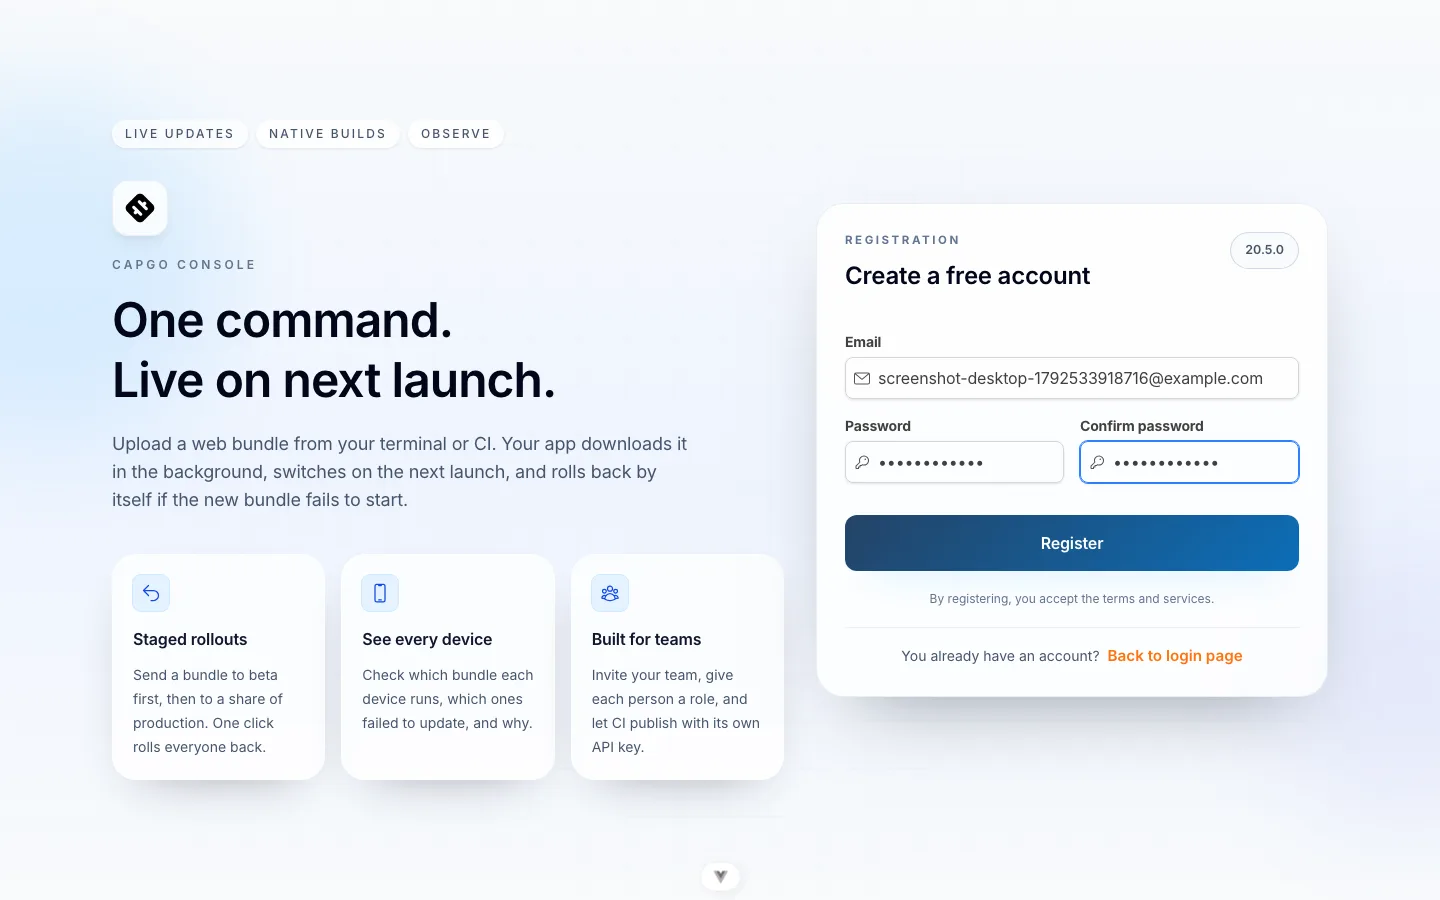
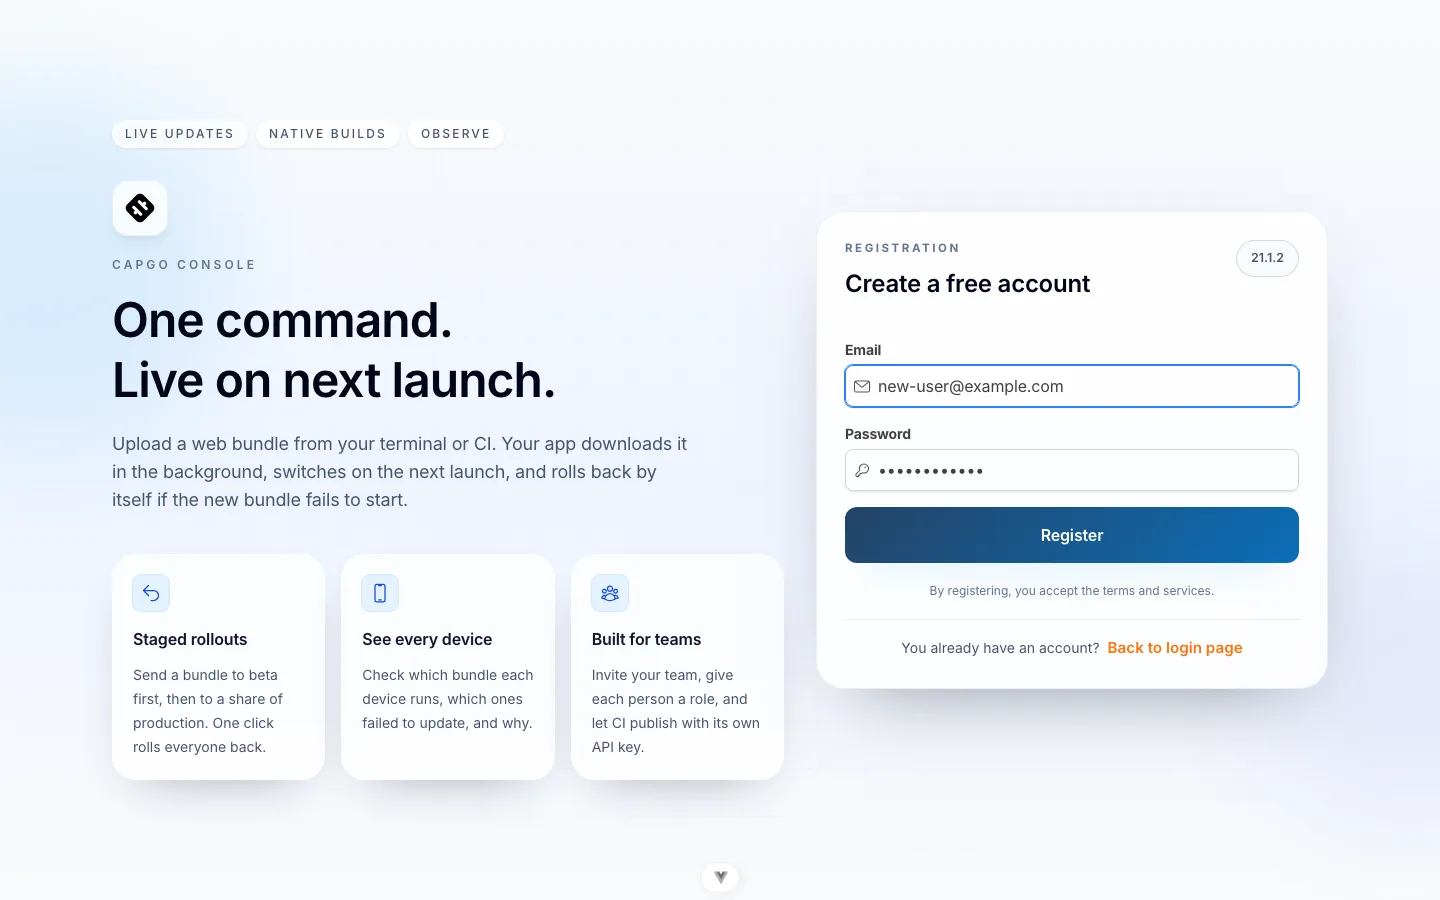
fix(register): drop confirm password field
Match the website signup: email and password only.

diff --git a/playwright/e2e/register.spec.ts b/playwright/e2e/register.spec.ts
@@ -182,7 +182,6 @@ test.describe('Registration', () => {
   test('returns from Your goal to saved names and retains the selected goal', async ({ page }) => {
     await page.fill('[data-test="email"]', `profile-back-${Date.now()}@example.com`)
     await page.fill('[data-test="password"]', 'Password123!')
-    await page.fill('[data-test="confirm-password"]', 'Password123!')
     await page.click('[data-test="submit"]')
     await page.waitForURL(/\/onboarding\/name/)
     await continuePastProfileWelcome(page)
@@ -222,7 +221,6 @@ test.describe('Registration', () => {
     await expect(page.locator('[data-test="last_name"]')).toHaveCount(0)
     await page.fill('[data-test="email"]', email)
     await page.fill('[data-test="password"]', 'Password123!')
-    await page.fill('[data-test="confirm-password"]', 'Password123!')
     await page.route('**/auth/v1/signup', route => route.abort())
     const registrationRequest = page.waitForRequest(request => request.url().endsWith('/auth/register') && request.method() === 'POST')
     await page.click('[data-test="submit"]')
@@ -346,7 +344,6 @@ test.describe('Registration', () => {
     await page.setViewportSize({ width: 390, height: 844 })
     await page.fill('[data-test="email"]', `mobile-profile-e2e-${Date.now()}@example.com`)
     await page.fill('[data-test="password"]', 'Password123!')
-    await page.fill('[data-test="confirm-password"]', 'Password123!')
     await page.click('[data-test="submit"]')
     await page.waitForURL(/\/onboarding\/name/)
     await continuePastProfileWelcome(page)
@@ -379,7 +376,6 @@ test.describe('Registration', () => {
       const password = 'Password123!'
       await page.fill('[data-test="email"]', email)
       await page.fill('[data-test="password"]', password)
-      await page.fill('[data-test="confirm-password"]', password)
       await page.click('[data-test="submit"]')
       await page.waitForURL(/\/onboarding\/name/)
       await continuePastProfileWelcome(page)
@@ -578,7 +574,6 @@ test.describe('Registration', () => {
 
     await page.fill('[data-test="email"]', email)
     await page.fill('[data-test="password"]', password)
-    await page.fill('[data-test="confirm-password"]', password)
     await page.click('[data-test="submit"]')
 
     await page.waitForURL(/\/onboarding\/name/)
@@ -630,7 +625,6 @@ test.describe('Registration', () => {
 
     await page.fill('[data-test="email"]', email)
     await page.fill('[data-test="password"]', password)
-    await page.fill('[data-test="confirm-password"]', password)
     await page.click('[data-test="submit"]')
 
     await page.waitForURL(/\/onboarding\/name/)
@@ -672,7 +666,6 @@ test.describe('Registration', () => {
 
     await page.fill('[data-test="email"]', email)
     await page.fill('[data-test="password"]', 'Password123!')
-    await page.fill('[data-test="confirm-password"]', 'Password123!')
     await page.click('[data-test="submit"]')
 
     await page.waitForURL(/\/onboarding\/name/)
@@ -687,7 +680,6 @@ test.describe('Registration', () => {
   test('should show error for existing email', async ({ page }) => {
     await page.fill('[data-test="email"]', 'test@capgo.app')
     await page.fill('[data-test="password"]', 'Password123!')
-    await page.fill('[data-test="confirm-password"]', 'Password123!')
     await page.click('[data-test="submit"]')
     await expect(page.locator('[data-test="form-error"]')).toContainText('User already registered')
   })
@@ -695,17 +687,8 @@ test.describe('Registration', () => {
   test('should show error for deleted account email', async ({ page }) => {
     await page.fill('[data-test="email"]', 'deleted@capgo.app')
     await page.fill('[data-test="password"]', 'Password123!')
-    await page.fill('[data-test="confirm-password"]', 'Password123!')
     await page.click('[data-test="submit"]')
     await expect(page.locator('[data-test="form-error"]')).toContainText('Account with this email used to exist, cannot recreate')
-  })
-
-  test('should show error for password mismatch', async ({ page }) => {
-    await page.fill('[data-test="email"]', 'new@example.com')
-    await page.fill('[data-test="password"]', 'Password123!')
-    await page.fill('[data-test="confirm-password"]', 'Password456!')
-    await page.click('[data-test="submit"]')
-    await expect(page.locator('.formkit-messages [data-message-type="validation"]')).toContainText('Password confirmation does not match')
   })
 
   test('should require a number before submitting to the registration API', async ({ page }) => {
@@ -716,7 +699,6 @@ test.describe('Registration', () => {
     })
     await page.fill('[data-test="email"]', 'password-policy@example.com')
     await page.fill('[data-test="password"]', 'Password!')
-    await page.fill('[data-test="confirm-password"]', 'Password!')
     await page.click('[data-test="submit"]')
     await expect(page.locator('.formkit-messages [data-message-type="validation"]')).toContainText(/number/i)
     expect(requests).toBe(0)

diff --git a/src/pages/register.vue b/src/pages/register.vue
@@ -84,27 +84,21 @@ async function submit(form: { password: string, email: string }) {
           />
         </div>
 
-        <FormKit
-          type="password"
-          name="password"
-          :prefix-icon="iconPassword"
-          autocomplete="new-password"
-          :label="t('password')"
-          data-test="password"
-          validation="required|length:6|contains_alpha|contains_uppercase|contains_lowercase|contains_numeric|contains_symbol"
-          validation-visibility="dirty"
-        />
-        <FormKit
-          type="password"
-          name="password_confirm"
-          :prefix-icon="iconPassword"
-          :label="t('confirm-password')"
-          autocomplete="new-password"
-          data-test="confirm-password"
-          validation="required|confirm"
-          validation-visibility="dirty"
-          :validation-label="t('password-confirmatio')"
-        />
+        <div class="md:col-span-2">
+          <FormKit
+            type="password"
+            name="password"
+            :prefix-icon="iconPassword"
+            autocomplete="new-password"
+            :label="t('password')"
+            data-test="password"
+            validation="required|length:6|contains_alpha|contains_uppercase|contains_lowercase|contains_numeric|contains_symbol"
+            validation-visibility="dirty"
+            :classes="{
+              outer: 'mb-0!',
+            }"
+          />
+        </div>
 
         <div v-if="captchaKey" class="md:col-span-2 overflow-hidden">
           <VueTurnstile v-model="turnstileToken" size="flexible" :site-key="captchaKey" />
